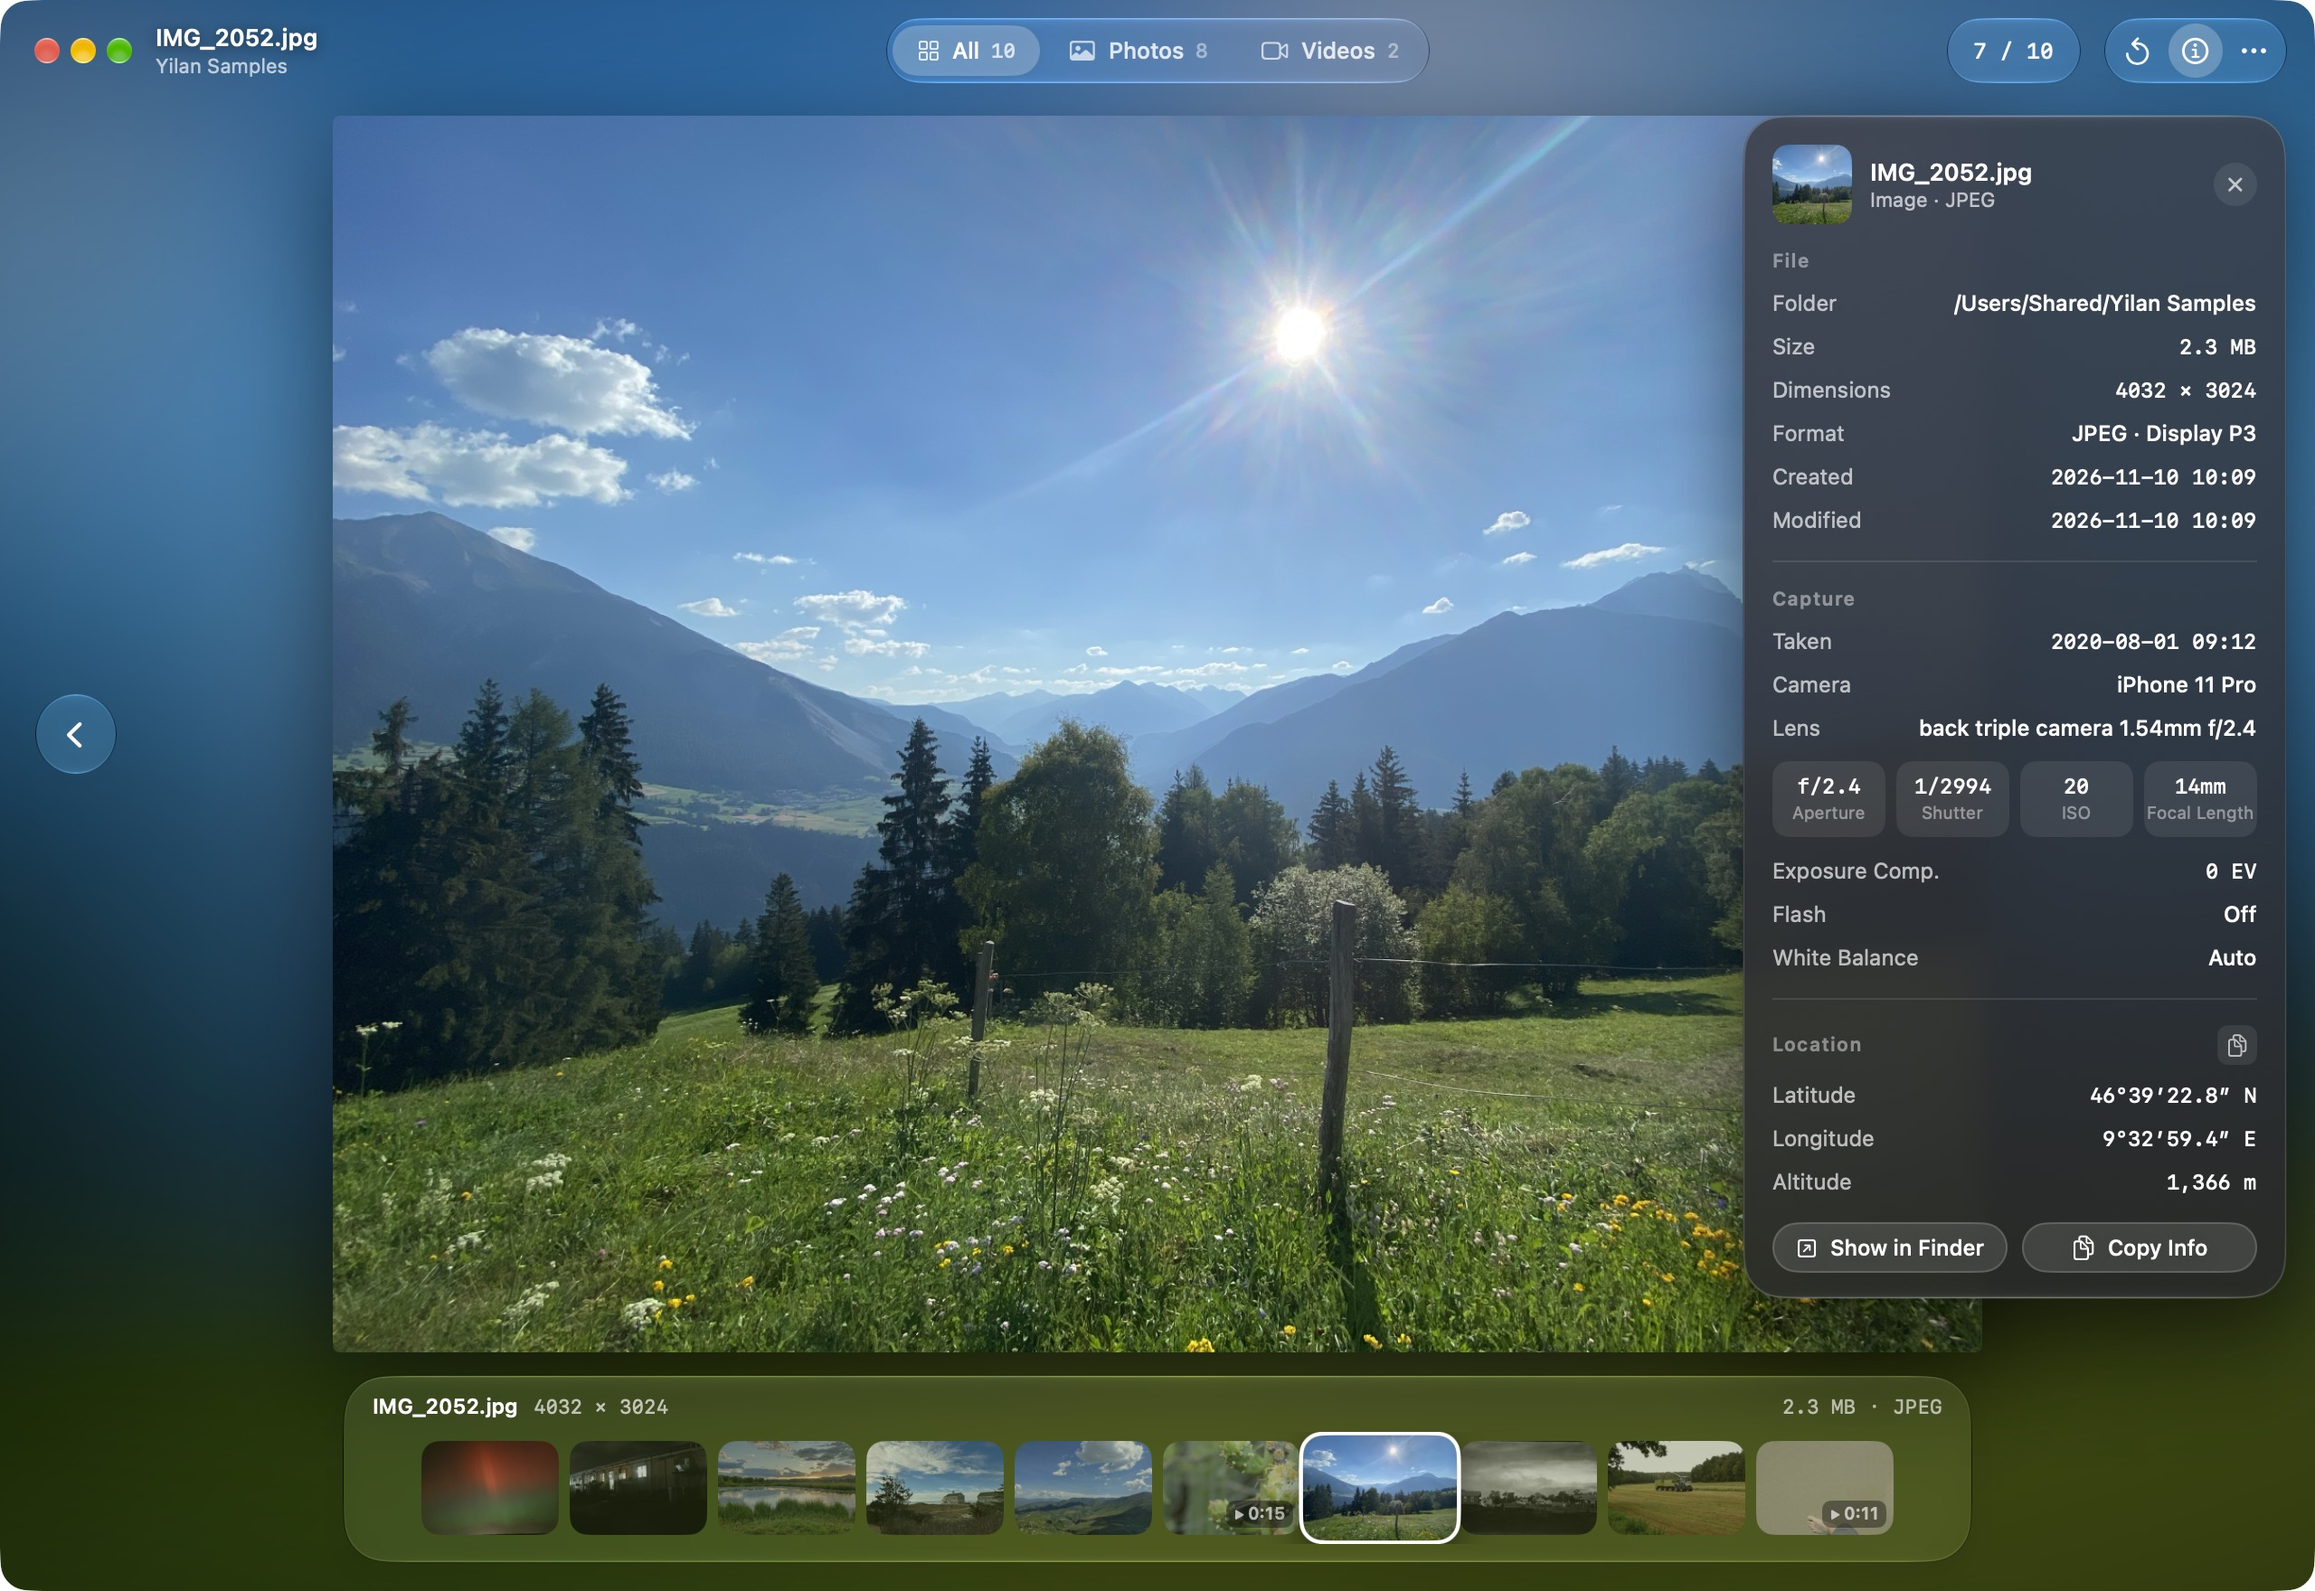
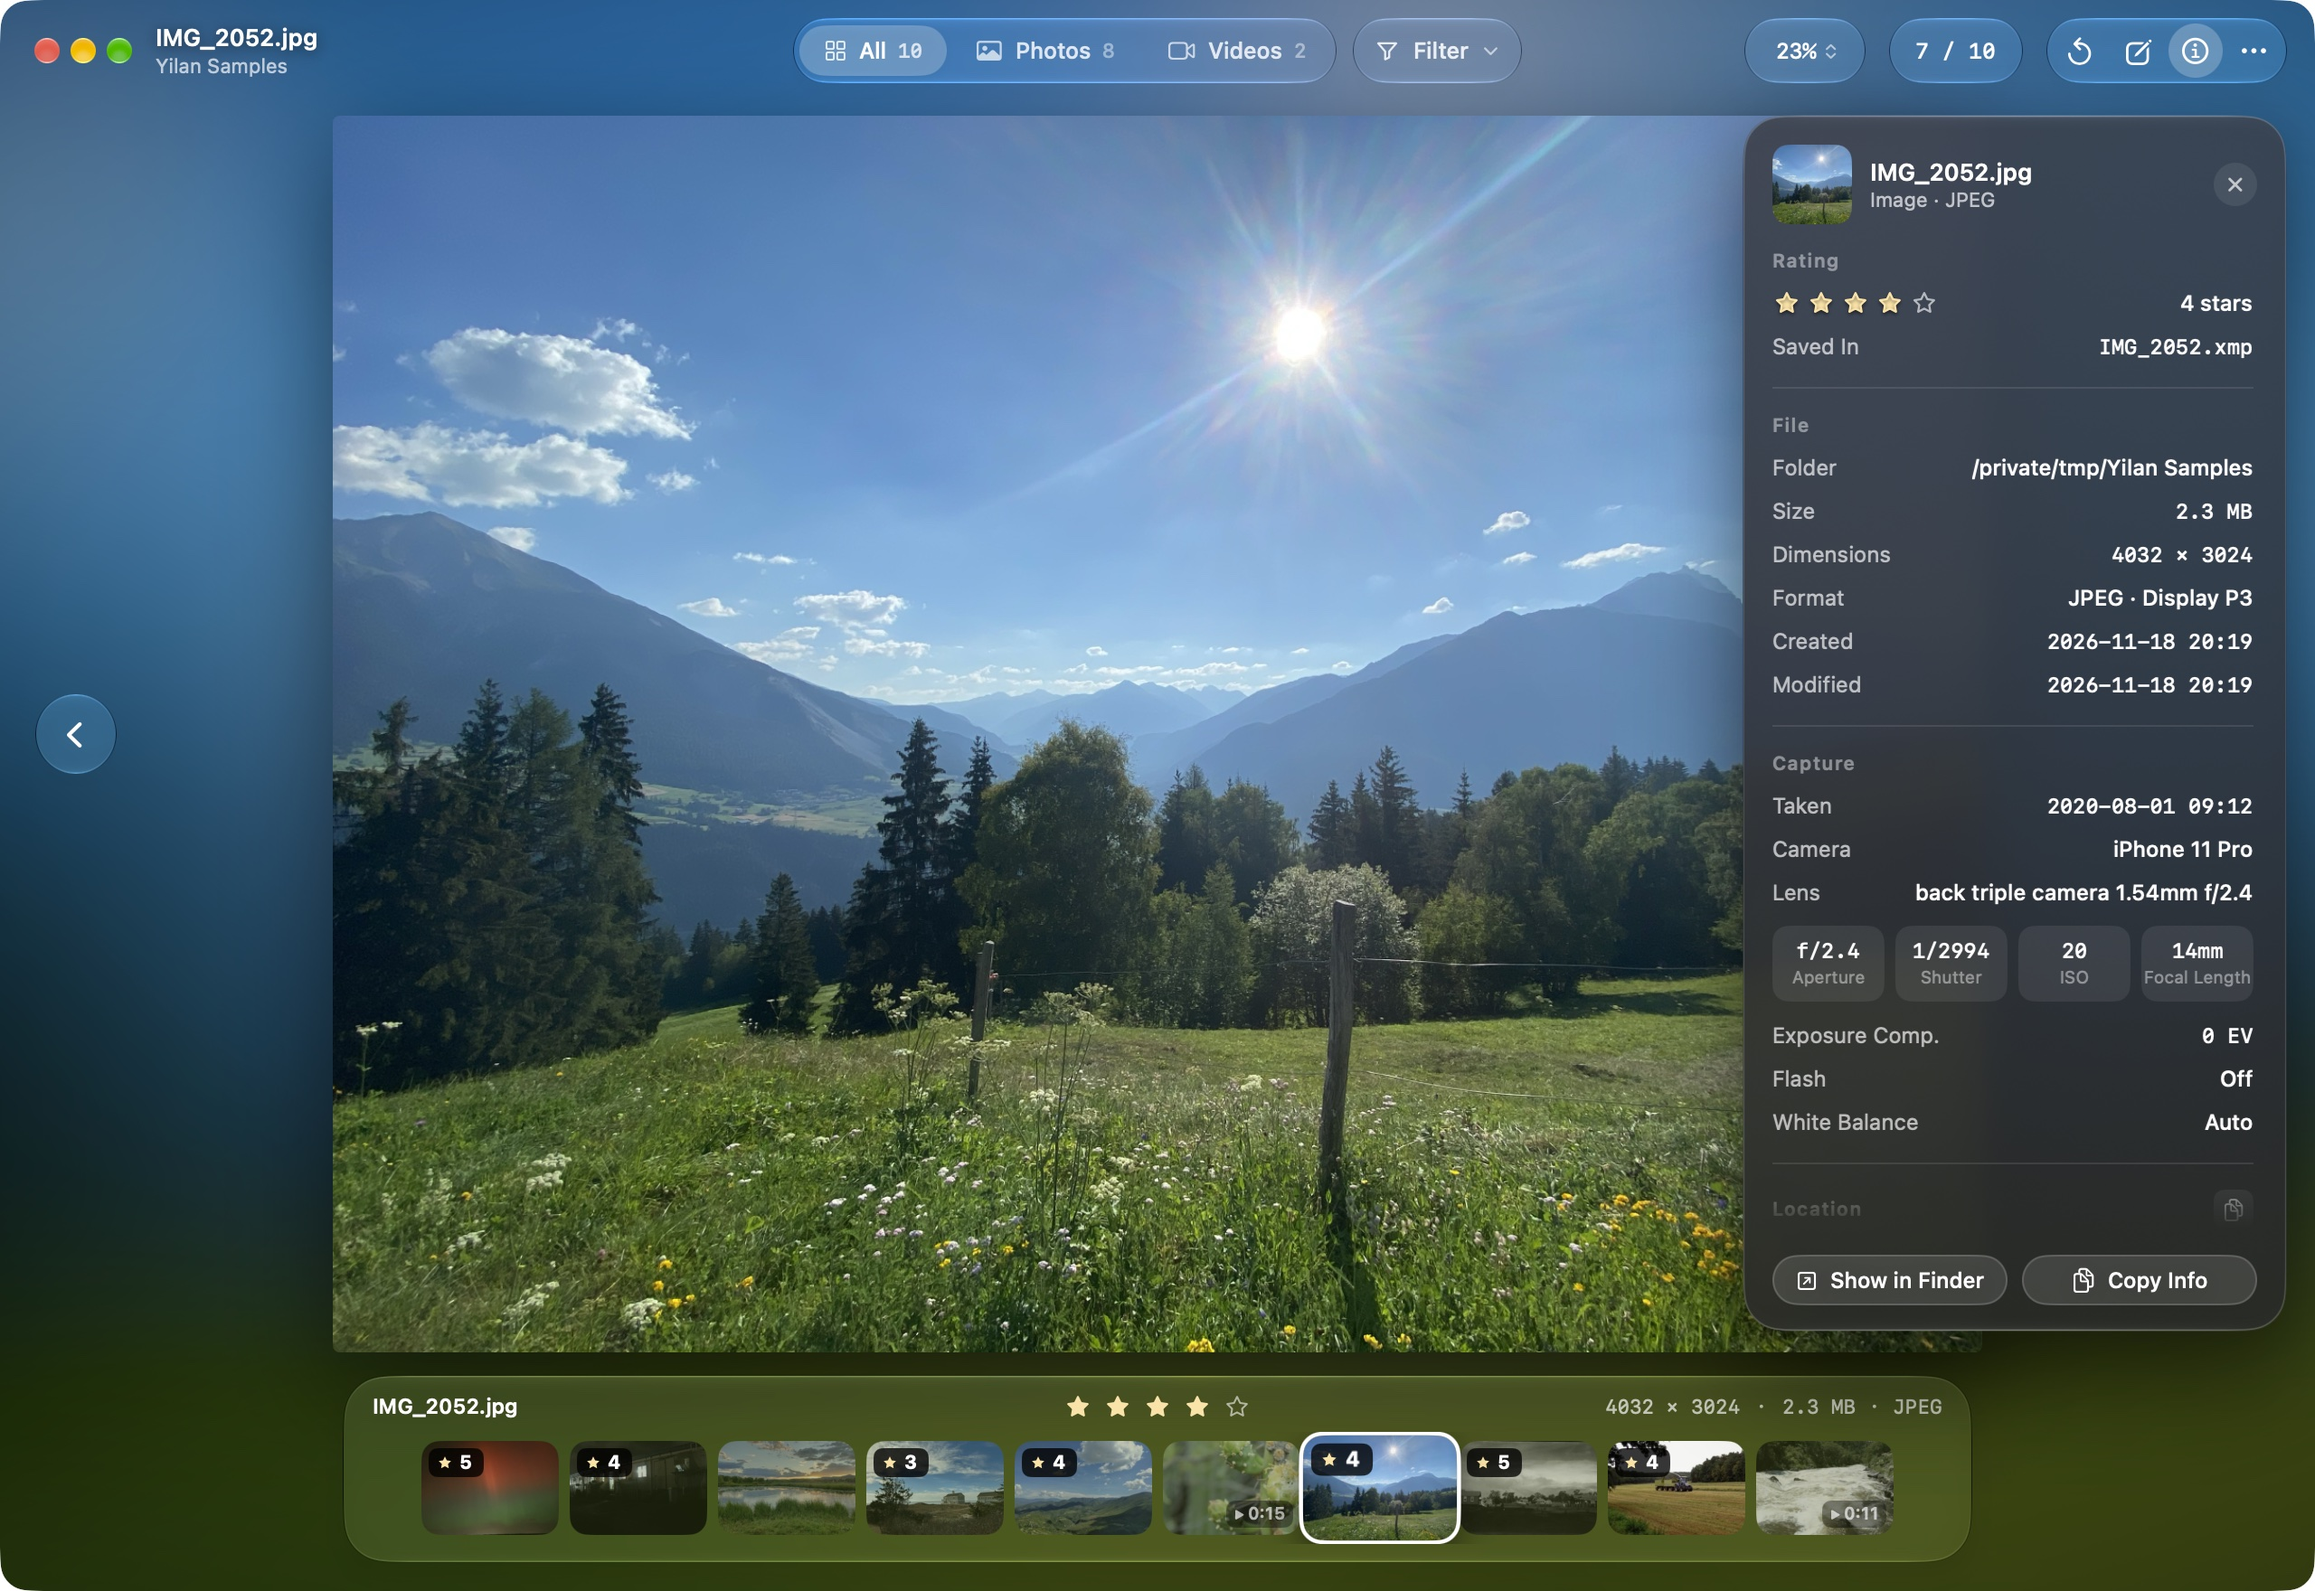
发布准备：版本号改为 0.3.0，README 补充 v0.3 功能和 macOS 15，重拍截图

diff --git a/README.zh-CN.md b/README.zh-CN.md
@@ -27,11 +27,12 @@
 - 支持 MP4、M4V、MOV（含 iPhone 的 HEVC 视频）播放，有悬浮控制条
 - 缩放、拖动、双击在「适应窗口」和「实际大小」之间切换，旋转
 - v0.2 新增：信息面板（按 I，文件信息和 EXIF 拍摄信息）、移到废纸篓并可 ⌘Z 撤销、全屏（按 F）、文件夹变化自动同步（新文件带高亮）、按设计稿分组的快捷键设置页
+- v0.3 新增：评星（按 1 到 5，记在照片旁的 `.xmp` 小文件里，不改照片）、按星级和格式筛选（⌘F）、基本编辑（按 E：裁切、旋转、调整分辨率，默认另存副本）、保存旋转、顶部缩放控件、新版本提醒、在设置里设为默认打开方式
 - 界面语言：简体中文、English
 
 ## 系统要求
 
-- macOS 26（Tahoe）或更高版本
+- macOS 15（Sequoia）或更高版本；在 macOS 26（Tahoe）上使用液态玻璃外观
 - Apple 芯片和 Intel 芯片的 Mac（发布包是通用二进制）
 
 ## 下载安装

diff --git a/README.md b/README.md
@@ -27,11 +27,12 @@
 - MP4, M4V and MOV playback (including iPhone HEVC video) with a floating control bar
 - Zoom, pan, double-click to toggle fit-to-window and actual size, rotate
 - New in v0.2: info panel (press I: file info and EXIF), move to Trash with ⌘Z undo, full screen (press F), live folder sync (new files are highlighted), and a keyboard shortcuts page in Settings
+- New in v0.3: star ratings (press 1 to 5; stored in a small `.xmp` file next to the photo, the photo is never changed), filter by rating and format (⌘F), basic editing (press E: crop, rotate, resize; saved as a copy by default), save rotation, a zoom control in the top bar, update reminders, and setting Yilan as the default app from Settings
 - UI languages: Simplified Chinese and English
 
 ## Requirements
 
-- macOS 26 (Tahoe) or later
+- macOS 15 (Sequoia) or later; on macOS 26 (Tahoe) the app uses the Liquid Glass look
 - Apple silicon and Intel Macs (the release build is a universal binary)
 
 ## Download and install

diff --git a/docs/release-notes-template.md b/docs/release-notes-template.md
@@ -36,11 +36,11 @@
 
 ## 安装 / Install
 
-**系统要求**：macOS 26（Tahoe）或更高版本，Apple 芯片和 Intel 芯片都可以。
+**系统要求**：macOS 15（Sequoia）或更高版本，Apple 芯片和 Intel 芯片都可以。
 
 **首次打开**：这个版本只做了 ad-hoc 签名。第一次打开被拦下后，到「系统设置 › 隐私与安全性」点「仍要打开」，或在终端执行 `xattr -dr com.apple.quarantine /Applications/Yilan.app`。
 
-**Requirements**: macOS 26 (Tahoe) or later, Apple silicon or Intel.
+**Requirements**: macOS 15 (Sequoia) or later, Apple silicon or Intel.
 
 **First launch**: this build is ad-hoc signed only. After it is blocked once, click "Open Anyway" in System Settings › Privacy & Security, or run `xattr -dr com.apple.quarantine /Applications/Yilan.app`.
 
